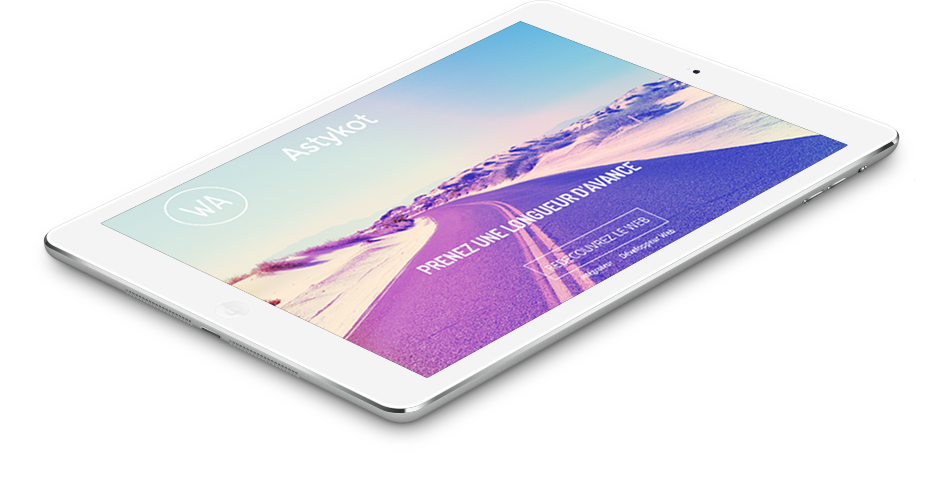
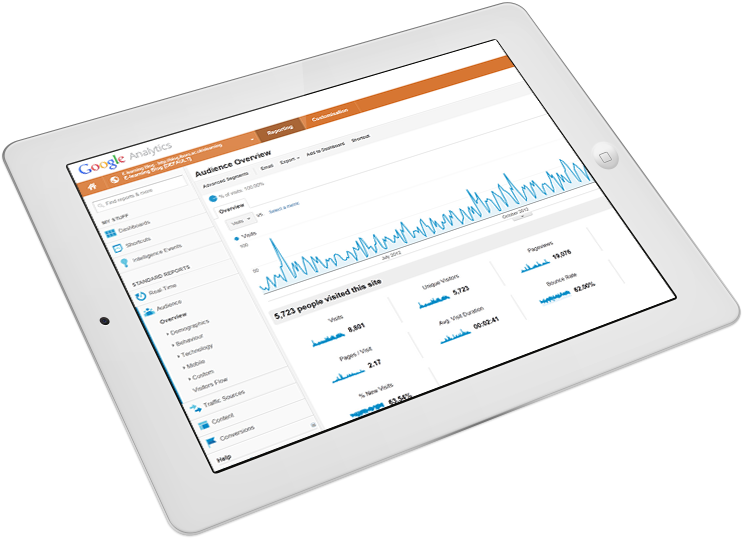
Modifi page services Rajout bandeau service sur page d'acceuil

diff --git a/services.html b/services.html
@@ -63,9 +63,9 @@
 		
             <div id='lesservices'>
                 <div class='blockgaranties light' data-sr="enter left and move 200px over 1s">
-                    <img class='imgleft' src='img/app-heros-icone-site-statistiques.png'>
+                    <img class='imgleft' src='img/app-hero-tablette-screen.png' data-sr="enter right and move 200px over 1s">
                     <div class='ctngarantiesright'>
-                        <h2>Statistiques</h2>
+                        <h2>STATISTIQUES</h2>
                         <p>Sur tous mes sites, vous aurez la possibilité d'avoir des statistiques de vos 
                         visiteurs,via Google analitycs qui seras mis en place.</p>
                         <p>Pour les sites e-commerce, vous disposerez des statistiques de
@@ -77,11 +77,21 @@
                 <div class='blockgaranties dark' data-sr="enter right and move 200px over 1s">
                     <img class='imgright' src='img/app-heros-icone-site-derniere-techo.png'>
                     <div class='ctngarantiesleft'>
-                        <h2>Dernières technologies</h2>
+                        <h2>DERNIÈRES  TECHNOLOGIES</h2>
                         <p>Je me forme constamment aux dernières technologies du web afin
                         de vous faire bénéficier de ce qui se fait de mieux en sécurité
                         et en facilité d'utilisation.</p>
                      </div><div class='clear'></div>
+                     <div id='ctncompetence' data-sr="enter right and move 200px over 1s">
+                        <div class='rondCompetence'>HTML 5</div>
+                        <div class='rondCompetence'>CSS 3</div>
+                        <div class='rondCompetence'>PHP</div>
+                        <div class='rondCompetence'>Jquery/Ajax</div>
+                        <div class='rondCompetence'>Node.js</div>
+                        <div class='rondCompetence'>Symphony2</div>
+                        <div class='rondCompetence'>Magento</div>
+                     </div>
+                     
                 </div>
 
                 <div class='blockgaranties light' data-sr="enter bottom and move 50px over 1s">
@@ -123,20 +133,23 @@
                     <div class='clear'></div>
                 </div>
 
-                <div class='blockgaranties light' data-sr="enter right and move 50px over 1s">
-                    <img class='imgright' src='img/app-heros-icone-site-formation.png'>
+                <div id='blockformation' class='blockgaranties light' data-sr="enter right and move 50px over 1s">
                     <div class='ctngarantiesleft'>
-                        <h2>Formation</h2>
+                        <h2>Formation & Remise des fichiers</h2>
 
                         <p>Vous voulez être indépendant sur votre gestion du site et son contenu, et c'est bien normal.
                         Une fois le site finit et mis en ligne, je me délace dans votre entreprise 
                         pour vous former à son utilisation.</p>
+                        <p>C'est votre site vous l'avez payé, aussi après la formation, je vous remets tous les fichiers
+                         qui composent votre site et tout vous appartient à 100%!<br/>
+                         Vous ne payerez jamais de frais supplémentaire pour pouvoir récuperer votre site
+                         ou le confier à un autre prestataire.</p>
                     </div> 
                     <div class='clear'></div>
                 </div>
 
 
-                <div class='blockgaranties dark' data-sr="enter bottom and move 50px over 1s">
+                <!--<div class='blockgaranties dark' data-sr="enter bottom and move 50px over 1s">
                     <img class='imgleft' src='img/app-heros-icone-site-remise-fichier.png'>
                     <div class='ctngarantiesright'>
                         <h2>Remise des fichiers</h2>
@@ -147,7 +160,7 @@
                          ou le confier à un autre prestataire.</p>
                     </div> 
                     <div class='clear'></div>
-                </div>
+                </div>-->
 
                 <div class='blockgaranties light' data-sr="enter top and move 50px over 1s">
                     <img class='imgright' src='img/app-heros-icone-site-hebergement-site.png'>

diff --git a/etapes.html b/etapes.html
@@ -37,7 +37,7 @@
 		
         <div id='ctnlesetapes'>
             <div id='etapes1' class='lesetapes' data-sr="enter bottom and move 50px over 1s">
-             <p class='indicleft'>Définir<br/>Réfléchir<br/>Projeter</p>
+             <p class='indicleft'>Définir<br/>&<br/>Réfléchir</p>
             <h2><span class='chiffre'>01</span> La rencontre</h2>
                 <div class='ctntext'>
                 <p>Indispensable, la rencontre nous permettras de bien cerner votre projet 
@@ -55,7 +55,7 @@
             </div>
 
             <div id='etapes2' class='lesetapes' data-sr="enter bottom and move 50px over 1s">
-            <p class='indicleft'>Créativité<br/>Expression<br/>Design</p>
+            <p class='indicleft'>Créativité<br/>&<br/>Expression</p>
             <h2><span class='chiffre'>02</span>Le design</h2>
 
                 <div id='ctnimggraphique'>
@@ -74,7 +74,7 @@
             </div>
 
             <div id='etapes3' class='lesetapes' data-sr="enter bottom and move 50px over 1s">
-                 <p class='indicleft'>Sécurisé<br/>Facilité d'accès<br/>Projeter</p>
+                 <p class='indicleft'>Sécurisé<br/>&<br/>Administrable</p>
                 <h2><span class='chiffre'>03</span>Intégration / développement</h2>
 
                 <div class="slideshow" id="slideshow">
@@ -108,6 +108,7 @@
 
             </div>
             <div id='etapes4' class='lesetapes'>
+                <p class='indicleft'>Visibilité<br/>&<br/>Publicité</p>
                 <h2><span class='chiffre'>04</span>Référencement/Mise en ligne</h2>
                 <div class='ctntext'>
                     <p>Dès que nous serons satisfaits par l'aspect final et le fonctionnement global de votre site,
@@ -116,6 +117,7 @@
                 <div class='clear'></div>
             </div>
             <div id='etapes5' class='lesetapes'>
+                <p class='indicleft'>Liberté<br/>&<br/>Finalisation</p>
                 <h2><span class='chiffre'>05</span>Remise du projet</h2>
                 <div class='ctntext'>
                     <p>Pour finir, je vous remettrais tous les fichiers de votre site, ainsi qu'un accès complet
@@ -129,7 +131,7 @@
 
             <div id='etapes6' class='lesetapes'>
                 <h2><span class='chiffre'>06</span>Accompagnement</h2>
-                <div class='textleft'>
+                <div class='ctntext'>
                     <p>Lorsque vous récupérez votre site, vous n'êtes pas seul pour autant.<br/>
                     Je reste disponible pour d'éventuels aménagement et nous suivrons ensemble
                     l'audience de votre site internet et les ventes de vos produits afin d'améliorer vos visites et vos chance de séduire vos acheteurs. </p>

diff --git a/css/apphero.css b/css/apphero.css
@@ -341,7 +341,7 @@ h3{ font-family: 'Open Sans', sans-serif;
     text-align:center;
 }
 #section1 #slideparalax2{
-    background: url(../img/app-heros-mockup-vbleu.jpg) center 0 no-repeat fixed;    
+    background: url(../img/app-heros-mockup-ssmockup.jpg) center 0 no-repeat fixed;    
 }
 
 
@@ -1021,6 +1021,26 @@ h3{ font-family: 'Open Sans', sans-serif;
     font-size: 2em;
 }
 
+#sectionserviceadd{
+    margin:auto;
+    text-align:center;
+    background:#414141;
+   
+}
+#sectionserviceadd .ctnaddimg{
+    display:inline-block;
+    width: 150px;
+    height : 150px;
+    line-height: 150px;
+    background :#333333;
+    margin-top:20px;
+ 
+}
+#sectionserviceadd .ctnaddimg img{
+    max-width: 100%;
+    max-height: 70%;
+    vertical-align: middle;
+}
 
 #section4{
     margin:auto;
@@ -1391,12 +1411,13 @@ body.etapes{
 }
 .etapes .indicleft {
     position: absolute;
-    left: -35%;
+    left: -39%;
     top: 30%;
     font-size:4em;
     color:#1abc9c;
     font-family: 'Indie Flower';
-   transform : rotateZ(-28deg);
+    text-align: center;
+   
   }
 .etapes #ctnlesetapes{
     position:relative;
@@ -1632,6 +1653,7 @@ body.services{
     color:#1abc9c;
     text-align:left;
     margin-bottom:5%;
+    margin : 0px !important;
 }
 #lesservices .blockgaranties {
     width:60%;
@@ -1640,6 +1662,23 @@ body.services{
     margin: auto;
     padding-top : 5%;
     padding-bottom:5%;
+}
+#lesservices  #blockformation{
+    background: url(../img/IMG_5803.jpg) center 0 no-repeat;
+    background-size:cover;
+    height:700px;
+    width:100%;
+    padding-left:20%;
+    padding-right:20%;
+    margin: auto;
+    padding-top : 5%;
+    padding-bottom:5%;
+}
+#lesservices  #blockformation h2{
+    text-align:center;
+}
+#lesservices  #blockformation p{
+   color:#fff; 
 }
 #lesservices .blockgaranties.light{
     background:#fff;
@@ -1661,20 +1700,38 @@ body.services{
 
 #lesservices .blockgaranties .imgleft{
     float:left;
-    max-width:20%;
+    max-width:50%;
 }
 #lesservices .blockgaranties .imgright{
     float:right;
-    max-width:20%;
+    max-width:50%;
 }
 
 #lesservices .ctngarantiesright{
-    float:right;
-    width:70%;
+    float:left;
+    width:45%;
+    margin-left: 5%;
 }
 #lesservices .ctngarantiesleft{
     float:left;
     width:70%;
+}
+#lesservices #ctncommpetence{
+    
+    
+}
+#lesservices .rondCompetence{
+width: 150px;
+height: 150px;
+background: #414141;
+float: left;
+margin-right: 10px;
+border-radius: 50%;
+line-height: 150px;
+text-align: center;
+font-size: 2em;
+color: #fff;
+font-family: 'Dosis';
 }
 .links .link{
    display: block;       

diff --git a/index.html b/index.html
@@ -1,3 +1,4 @@
+<!DOCTYPE html>
 <html>
     <head>
         <title>App-heros</title>
@@ -57,7 +58,7 @@
             <div class="enter_bottom"> 
                     <button id="ghost-btn">REDECOUVREZ LE WEB</button>
             </div>
-                 
+         
             <div class="section" id="section1">
             <div id="slideparalax2">	
             <h2>Qui est sous le masque?</h2>
@@ -466,6 +467,18 @@
 
             </div>
 
+             <div class="section" id="sectionserviceadd">	
+                    <h2>Et avec ceci?</h2>
+                    <p>Ce s'ras pas tout, merci.<br/>Chez App heros, c'est vous le héros. Voici ce à quoi vous avez le droit. </p>
+                    <div class='ctnaddimg'><img src='img/app-heros-icone-site-derniere-techo.png' /> </div>
+                    <div class='ctnaddimg'><img src='img/app-heros-icone-site-delaie-respecte.png' /></div>
+                    <div class='ctnaddimg'><img src='img/app-heros-icone-site-design-personaliser.png' /></div>
+                    <div class='ctnaddimg'><img src='img/app-heros-icone-site-formation.png' /></div>
+                    <div class='ctnaddimg'><img src='img/app-heros-icone-site-hebergement-site.png' /></div>
+                    <div class='ctnaddimg'><img src='img/app-heros-icone-site-remise-fichier.png' /></div>
+                    <div class='ctnaddimg'><img src='img/app-heros-icone-site-statistiques.png' /></div>
+            </div>
+            
             <div class="section" id="section4">	
                     <h2>Vous souhaitez plus d'informations et me recontrer?</h2>
                     <p>Envoyez moi un mail, et trouvons ensemble la meilleure solution à votre demande. </p>
